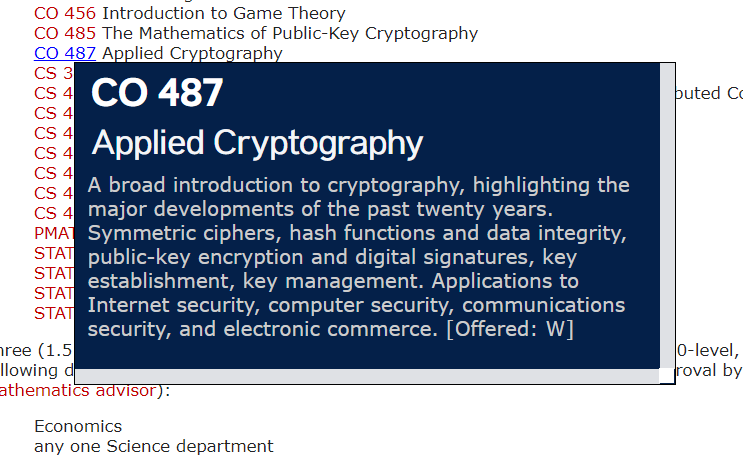
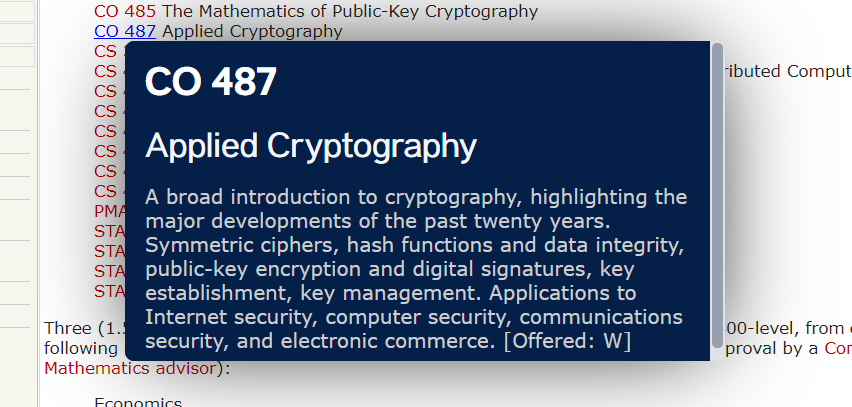
Update README

diff --git a/README.md b/README.md
@@ -11,5 +11,12 @@ This Chrome extension allows you to view information about a course from UW Flow
 - Select "Load Unpacked"
 - Choose the "extension" folder within the repo
 
+## To-Do
+🔲 Add course stats (liked, easy, useful) and graphic \
+🔲 Add prerequisites, corequisites and antirequisites \
+🔲 Change UI to match the visual style of UW Flow (and add a favicon) \
+🔲 Allow extension to support UW Flow URLs and run on any website \
+🔲 Make info card position dependent on screen borders \
+
 <br/>
 This extension is not affiliated with the University of Waterloo or UW Flow.
